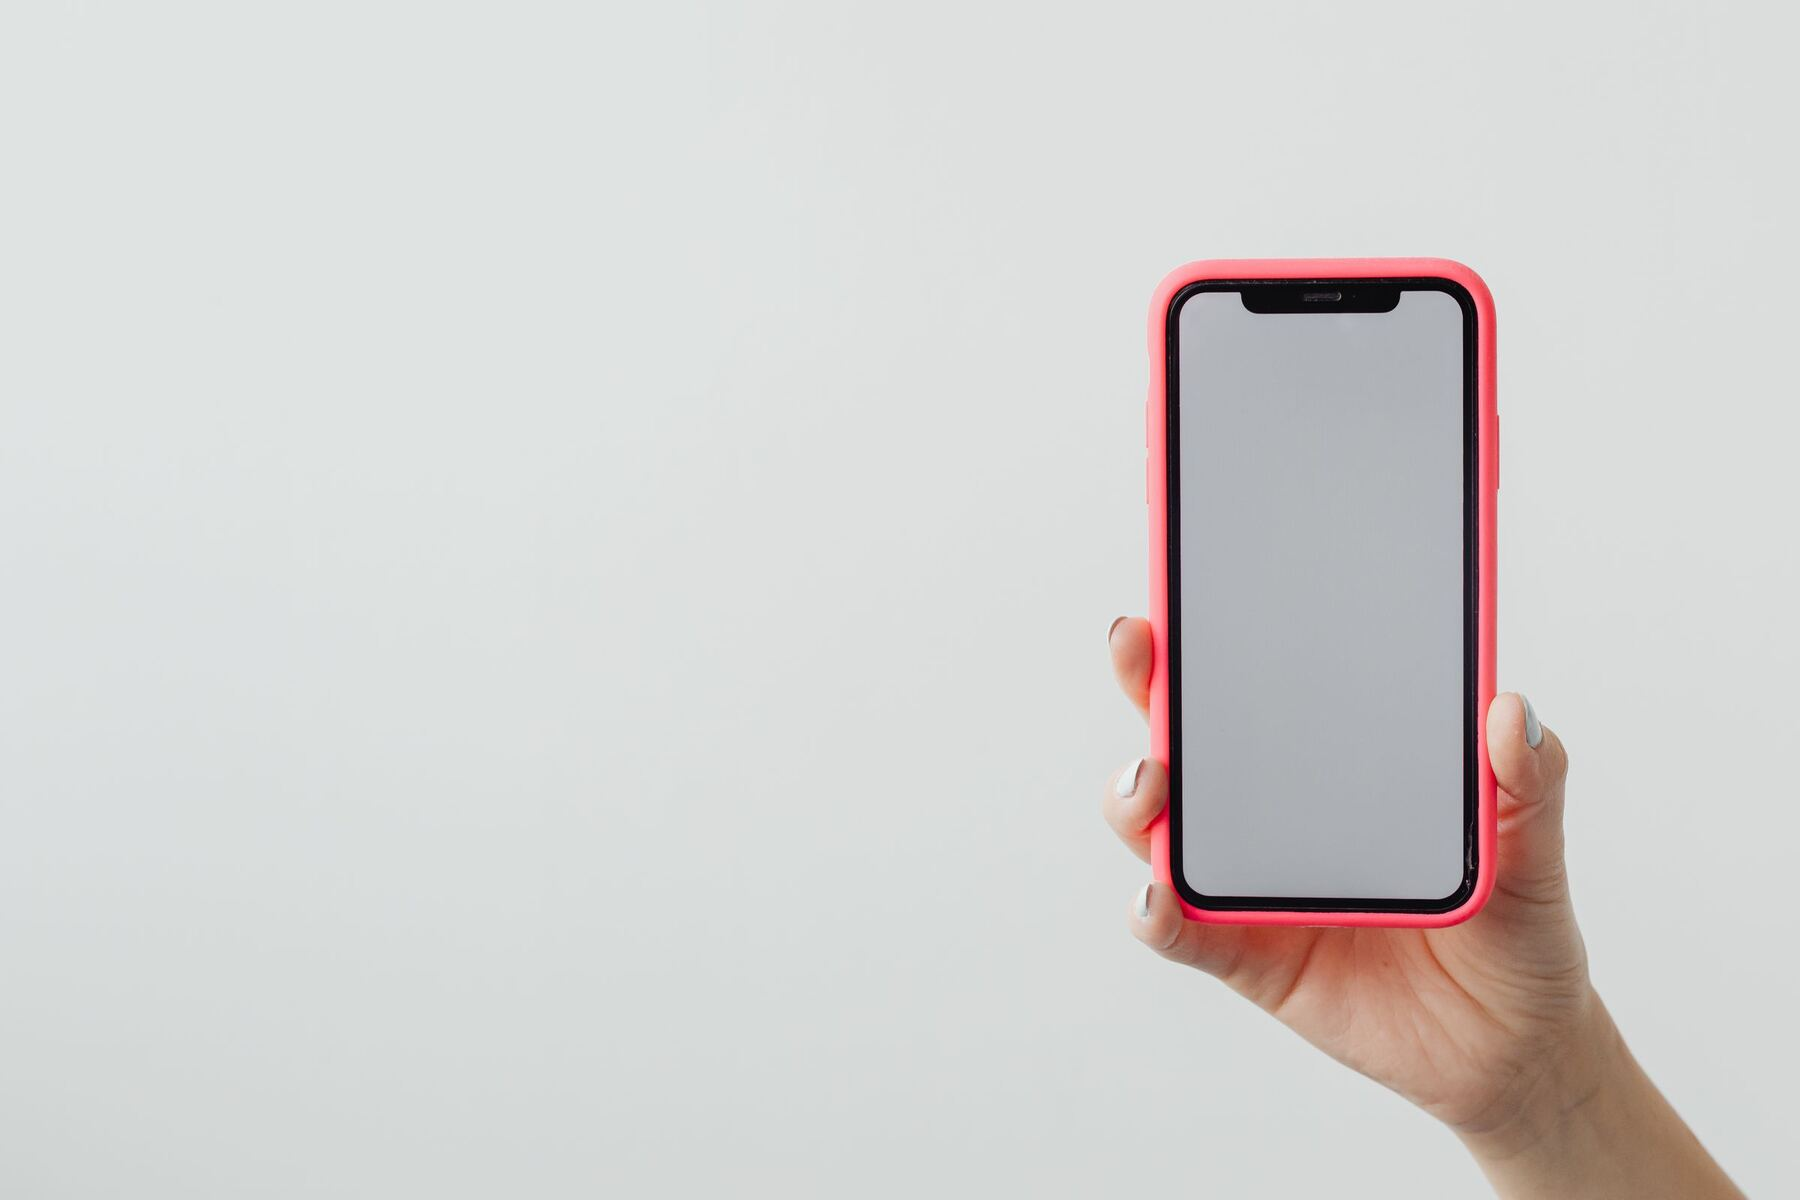
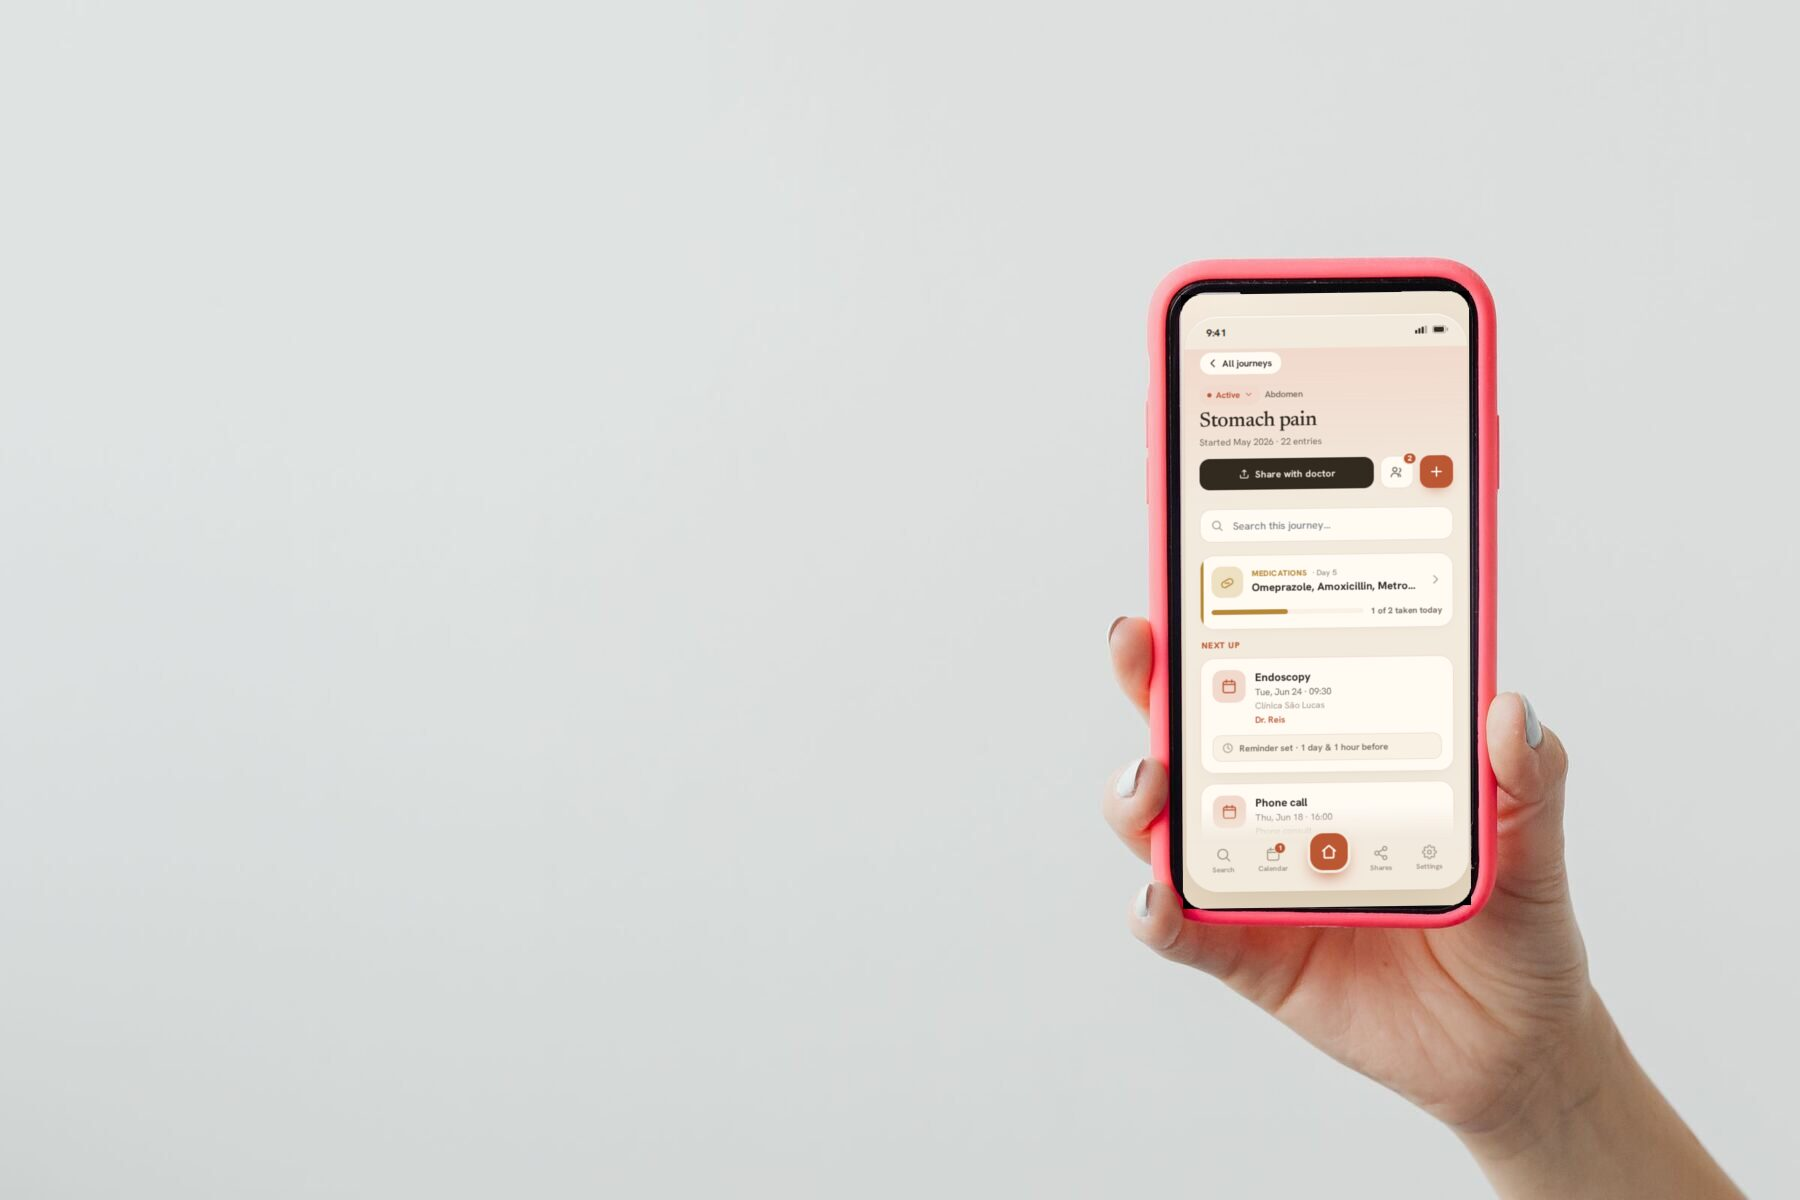
feat: show a Caremate screen on the phone in the hero

Changed region(s): [[0.6533, 0.2158, 0.84, 0.7708]]

diff --git a/site/index.html b/site/index.html
@@ -81,7 +81,7 @@
     /* The scrim is heaviest on the left, where the copy sits, and clears toward the
        right so the phone in the photograph stays visible. */
     background-image:
-      linear-gradient(100deg, rgba(248, 248, 248, .94) 0%, rgba(248, 248, 248, .72) 42%, rgba(248, 248, 248, .18) 100%),
+      linear-gradient(100deg, rgba(248, 248, 248, .94) 0%, rgba(248, 248, 248, .70) 40%, rgba(248, 248, 248, .04) 78%),
       url('/images/hero.jpg');
     background-size: cover;
     background-position: 68% center;
@@ -111,7 +111,7 @@
   @media (max-width: 640px) {
     .hero {
       background-image:
-        linear-gradient(to top, rgba(248, 248, 248, .97) 32%, rgba(248, 248, 248, .78) 58%, rgba(248, 248, 248, .35) 100%),
+        linear-gradient(to top, rgba(248, 248, 248, .98) 34%, rgba(248, 248, 248, .74) 50%, rgba(248, 248, 248, .08) 82%),
         url('/images/hero.jpg');
       background-position: 88% top;
     }

diff --git a/README.md b/README.md
@@ -61,8 +61,24 @@ can only use the token; wrangler refuses the OAuth flow without a TTY.
 ## Images
 
 `site/images/hero.jpg` is [Pexels photo 8947184](https://www.pexels.com/photo/a-person-holding-a-cellphone-on-white-background-8947184/)
-by kaboompics.com, resized to 1800px wide and recompressed to ~44 KB. The Pexels licence
-allows commercial use with no attribution required.
+by kaboompics.com (Pexels licence: commercial use, no attribution required), resized to
+1800px wide, with a Caremate journey screen composited into the phone's blank glass.
+
+The screen came from `caremate/mockup-journey.png` — a **design mockup**, not a capture of
+the shipping app. To redo it after the UI changes, crop the screen out of a new source and
+perspective-warp it onto the glass:
+
+```bash
+QUAD="0,0 1181,295  400,0 1469,291  400,866 1471,905  0,866 1183,909"
+magick screen.png \( +clone -alpha transparent -background none -fill white \
+  -draw "roundrectangle 0,0 399,865 30,30" \) -compose DstIn -composite round.png
+magick round.png -blur 0x0.5 -modulate 99,94,100 -alpha set -virtual-pixel transparent \
+  -define distort:viewport=1800x1200+0+0 -distort Perspective "$QUAD" warp.png
+magick photo.jpg warp.png -compose over -composite -quality 82 site/images/hero.jpg
+```
+
+The quad is the screen's four corners in the 1800×1200 photo, clockwise from top-left; the
+blur and `-modulate` keep the crisp screenshot from looking pasted onto a soft photograph.
 
 If you replace it, recompress — don't drop a raw camera JPEG in — and re-check both hero
 scrims. The desktop gradient is heaviest on the left where the copy sits; below 640px a
